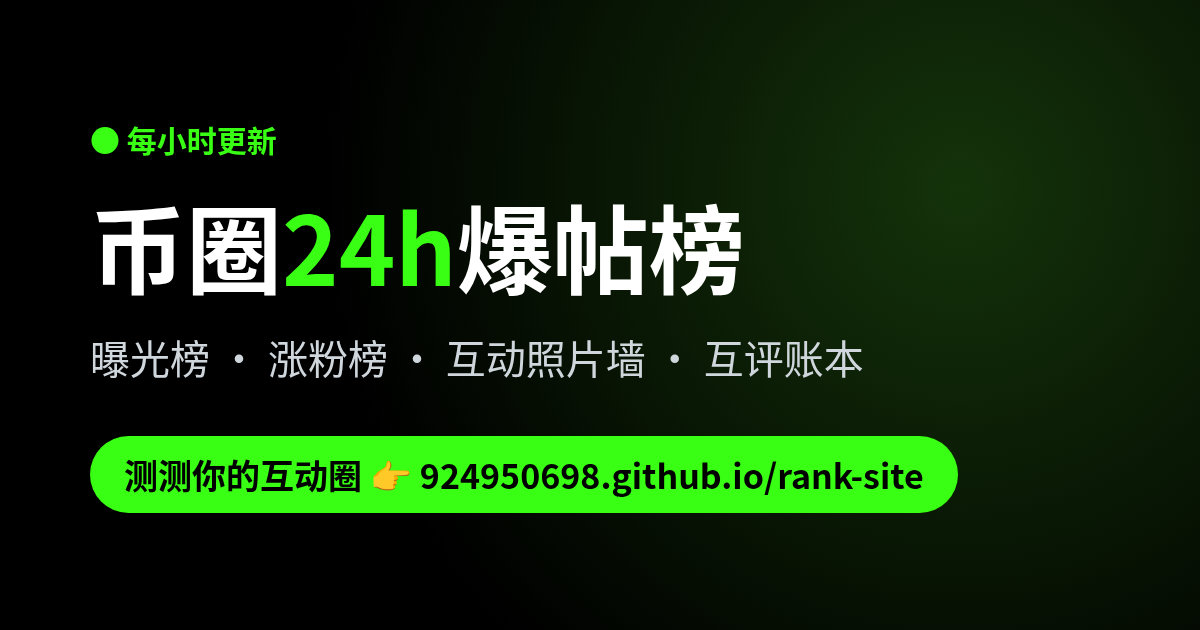
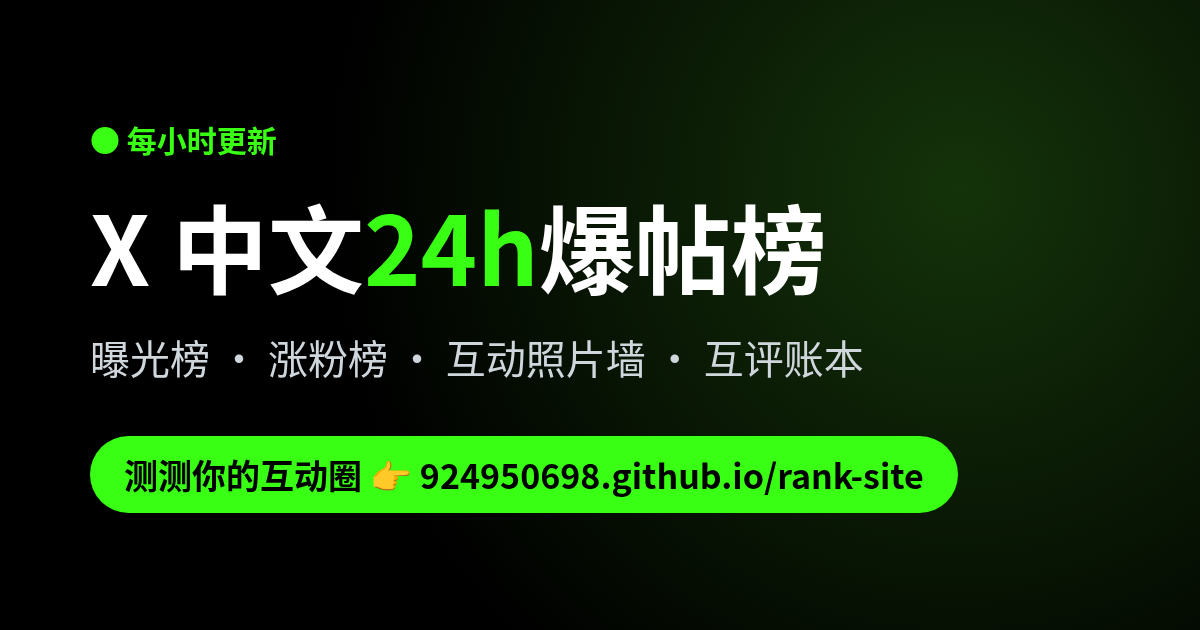
data: 2026-10-16 15:41 CST

Changed region(s): [[0.0617, 0.3016, 0.7092, 0.4825]]

diff --git a/privacy.html b/privacy.html
@@ -1,2 +1,2 @@
-<!doctype html><html lang="zh-CN"><head><meta charset="utf-8"><meta name="viewport" content="width=device-width,initial-scale=1"><title>隐私政策 · 币圈 24h 爆帖榜</title><link rel="stylesheet" href="style.css"></head>
-<body><header><a href="./"><b class="logo">币圈<span class="g">24h</span>爆帖榜</b></a></header><div class="doc"><h1>隐私政策</h1><p class="m">更新日期：2026-10-15（V1 草稿，上线前需 tiger 审阅）</p><h2>不收集个人信息</h2><p>本站是纯静态展示页，没有登录、注册、评论或投稿功能，不收集、不存储任何访客个人数据。</p><h2>访问统计</h2><p>我们使用 Cloudflare Web Analytics 统计页面访问量和跳转到 X 的点击数。它不使用 Cookie，不跟踪个人身份。</p><h2>第三方内容</h2><p>点击「正文」时会加载 X 官方嵌入组件，此时适用 X 的隐私政策。头像与图片直接加载自 X。</p><h2>帖子数据</h2><p>榜单来自 X 公开帖子，只保存帖子链接、作者公开资料和互动数，不保存正文，仅保留 24 小时；原帖被删除或设为私密后会随下次更新移除。我们不出售、不分发任何 X 数据。</p><h2>联系</h2><p>X：@tigerr3aue</p></div></body></html>
+<!doctype html><html lang="zh-CN"><head><meta charset="utf-8"><meta name="viewport" content="width=device-width,initial-scale=1"><title>隐私政策 · X 中文 24h 爆帖榜</title><link rel="stylesheet" href="style.css"></head>
+<body><header><a href="./"><b class="logo">X 中文<span class="g">24h</span>爆帖榜</b></a></header><div class="doc"><h1>隐私政策</h1><p class="m">更新日期：2026-10-15（V1 草稿，上线前需 tiger 审阅）</p><h2>不收集个人信息</h2><p>本站是纯静态展示页，没有登录、注册、评论或投稿功能，不收集、不存储任何访客个人数据。</p><h2>访问统计</h2><p>我们使用 Cloudflare Web Analytics 统计页面访问量和跳转到 X 的点击数。它不使用 Cookie，不跟踪个人身份。</p><h2>第三方内容</h2><p>点击「正文」时会加载 X 官方嵌入组件，此时适用 X 的隐私政策。头像与图片直接加载自 X。</p><h2>帖子数据</h2><p>榜单来自 X 公开帖子，只保存帖子链接、作者公开资料和互动数，不保存正文，仅保留 24 小时；原帖被删除或设为私密后会随下次更新移除。我们不出售、不分发任何 X 数据。</p><h2>联系</h2><p>X：@tigerr3aue</p></div></body></html>

diff --git a/index.html b/index.html
@@ -3,11 +3,11 @@
 <head>
 <meta charset="utf-8">
 <meta name="viewport" content="width=device-width,initial-scale=1,viewport-fit=cover">
-<title>币圈 24h 爆帖榜 · 每小时更新</title>
-<meta name="description" content="每小时更新 X 上中文币圈 24 小时爆帖：曝光榜、评论榜、涨粉榜、照片墙。">
+<title>X 中文 24h 爆帖榜 · 每小时更新</title>
+<meta name="description" content="每小时更新 X 中文圈 24 小时爆帖：曝光榜、评论榜、涨粉榜、照片墙。">
 <meta property="og:type" content="website">
 <meta property="og:url" content="https://924950698.github.io/rank-site/">
-<meta property="og:title" content="币圈 24h 爆帖榜 · 每小时更新">
+<meta property="og:title" content="X 中文 24h 爆帖榜 · 每小时更新">
 <meta property="og:description" content="曝光榜、涨粉榜、互动照片墙、互评账本，测测你的互动圈。">
 <meta property="og:image" content="https://924950698.github.io/rank-site/og.png">
 <meta name="twitter:card" content="summary_large_image">
@@ -15,11 +15,11 @@
 <meta name="twitter:image" content="https://924950698.github.io/rank-site/og.png">
 <meta name="theme-color" content="#000000">
 <link rel="preload" href="data.json" as="fetch" crossorigin>
-<link rel="stylesheet" href="style.css?v=20261016153958">
+<link rel="stylesheet" href="style.css?v=20261016154135">
 </head>
 <body>
 <header>
-  <b class="logo">币圈<span class="g">24h</span>爆帖榜</b>
+  <b class="logo">X 中文<span class="g">24h</span>爆帖榜</b>
   <span class="upd" id="upd">● --:-- 已更新</span>
   <a class="btn follow" data-src="header" href="https://x.com/intent/follow?screen_name=tigerr3aue" target="_blank" rel="noopener">关注 @tigerr3aue</a>
 </header>
@@ -69,7 +69,7 @@
 </footer>
 
 
-<script>window.ASSET_V="20261016153958"</script><script src="config.js?v=20261016153958"></script>
-<script src="app.js?v=20261016153958" defer></script>
+<script>window.ASSET_V="20261016154135"</script><script src="config.js?v=20261016154135"></script>
+<script src="app.js?v=20261016154135" defer></script>
 </body>
 </html>

diff --git a/terms.html b/terms.html
@@ -1,2 +1,2 @@
-<!doctype html><html lang="zh-CN"><head><meta charset="utf-8"><meta name="viewport" content="width=device-width,initial-scale=1"><title>服务条款 · 币圈 24h 爆帖榜</title><link rel="stylesheet" href="style.css"></head>
-<body><header><a href="./"><b class="logo">币圈<span class="g">24h</span>爆帖榜</b></a></header><div class="doc"><h1>服务条款</h1><p class="m">更新日期：2026-10-15（V1 草稿，上线前需 tiger 审阅）</p><h2>服务说明</h2><p>本站每小时汇总 X 上中文币圈关键词范围内的公开热帖，不代表全站，不构成任何投资建议。</p><h2>内容权利</h2><p>帖子版权归原作者所有，本站只展示互动数并链接/嵌入原帖。权利人可通过 X @tigerr3aue 联系删除。</p><h2>免责</h2><p>榜单由程序自动生成，可能存在延迟或遗漏。</p></div></body></html>
+<!doctype html><html lang="zh-CN"><head><meta charset="utf-8"><meta name="viewport" content="width=device-width,initial-scale=1"><title>服务条款 · X 中文 24h 爆帖榜</title><link rel="stylesheet" href="style.css"></head>
+<body><header><a href="./"><b class="logo">X 中文<span class="g">24h</span>爆帖榜</b></a></header><div class="doc"><h1>服务条款</h1><p class="m">更新日期：2026-10-15（V1 草稿，上线前需 tiger 审阅）</p><h2>服务说明</h2><p>本站每小时汇总 X 上中文币圈关键词范围内的公开热帖，不代表全站，不构成任何投资建议。</p><h2>内容权利</h2><p>帖子版权归原作者所有，本站只展示互动数并链接/嵌入原帖。权利人可通过 X @tigerr3aue 联系删除。</p><h2>免责</h2><p>榜单由程序自动生成，可能存在延迟或遗漏。</p></div></body></html>

diff --git a/poster.js b/poster.js
@@ -43,7 +43,7 @@ function draw(o, IM, t = null) {
   c.strokeStyle = G; c.lineWidth = 4; c.strokeRect(30, 30, W - 60, H - 60);
   // 站名
   c.textAlign = "left"; c.textBaseline = "alphabetic";
-  c.font = `800 44px ${FONT}`; c.fillStyle = "#fff"; c.fillText("币圈", 80, 120); let w = c.measureText("币圈").width;
+  c.font = `800 44px ${FONT}`; c.fillStyle = "#fff"; c.fillText("X 中文", 80, 120); let w = c.measureText("X 中文").width;
   c.fillStyle = G; c.fillText("24h", 80 + w, 120); w += c.measureText("24h").width; c.fillStyle = "#fff"; c.fillText("爆帖榜", 80 + w, 120);
   c.save(); c.translate(0, dy);
   // 标题
@@ -71,7 +71,7 @@ function draw(o, IM, t = null) {
   for (const ch of u) { if (c.measureText(line + ch).width > 620) { c.fillText(line, 380, ly); ly += 34; line = ""; } line += ch; } c.fillText(line, 380, ly);
   c.restore();
   // 页脚 + 水印
-  c.textAlign = "center"; c.fillStyle = "#8b9095"; c.font = `400 30px ${FONT}`; c.fillText("关注 @tigerr3aue · 每小时更新币圈爆帖", W / 2, H - 70);
+  c.textAlign = "center"; c.fillStyle = "#8b9095"; c.font = `400 30px ${FONT}`; c.fillText("关注 @tigerr3aue · 每小时更新 X 中文爆帖", W / 2, H - 70);
   c.save(); c.translate(W - 66, 400 + dy); c.rotate(Math.PI / 2); c.globalAlpha = .35; c.fillStyle = G; c.font = `800 26px ${FONT}`; c.textAlign = "left"; c.fillText("@tigerr3aue", 0, 0); c.restore();
   c.save(); c.globalAlpha = .9; c.fillStyle = G; c.font = `800 30px ${FONT}`; c.textAlign = "right"; c.fillText("@tigerr3aue", W - 80, 120); c.restore();
   return cv;
